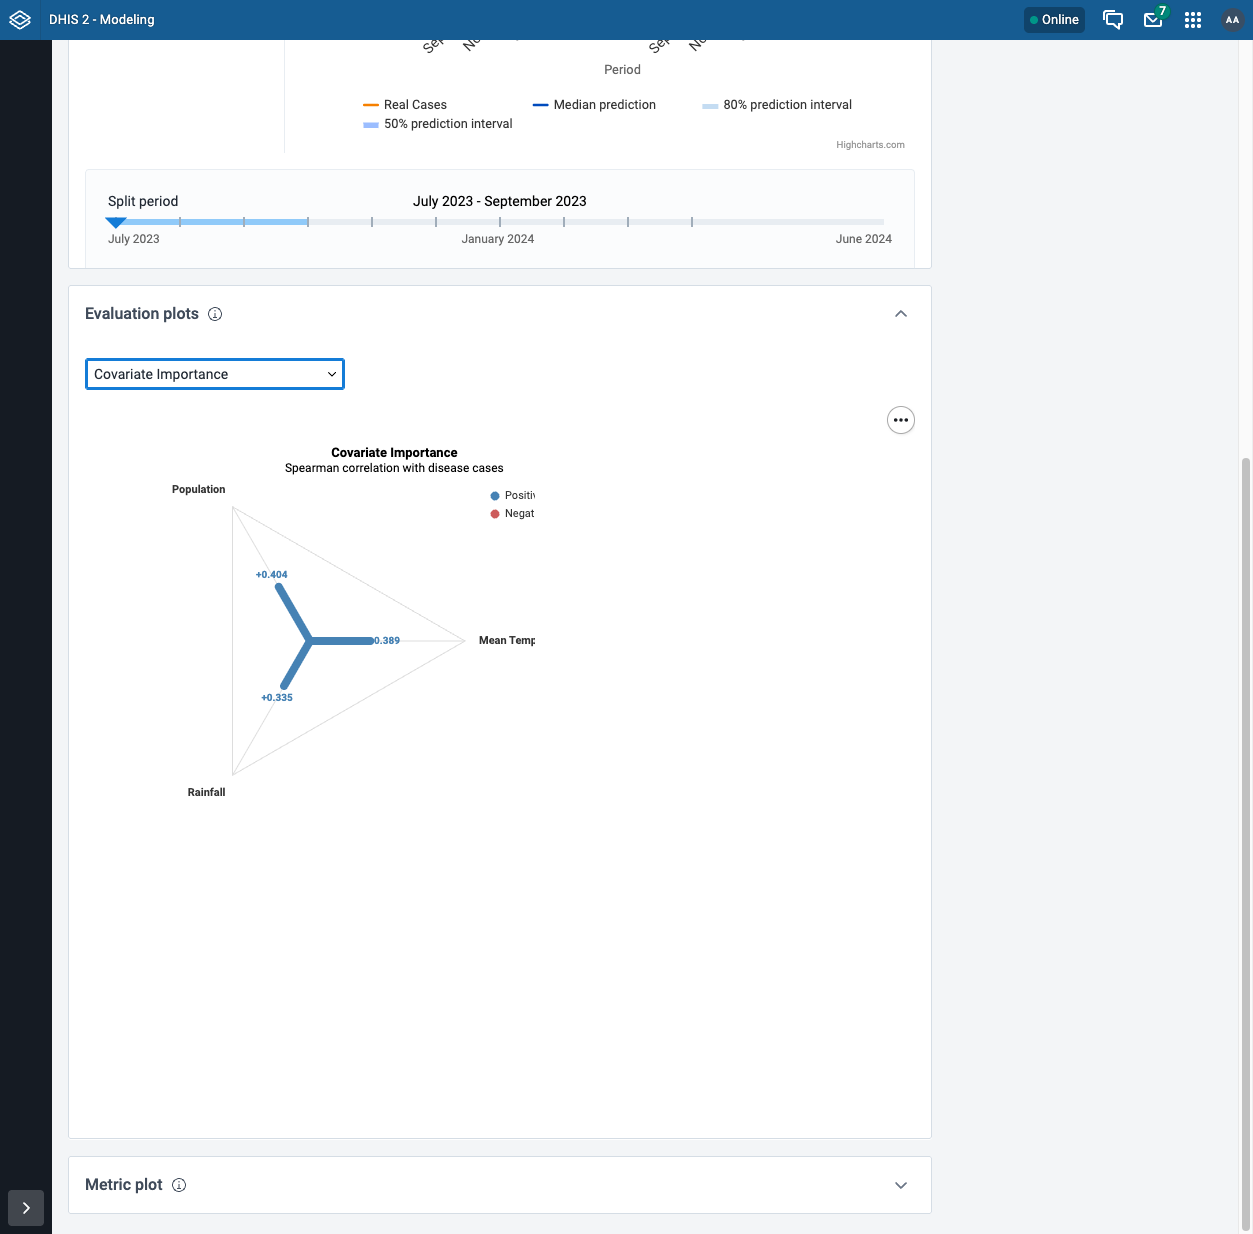
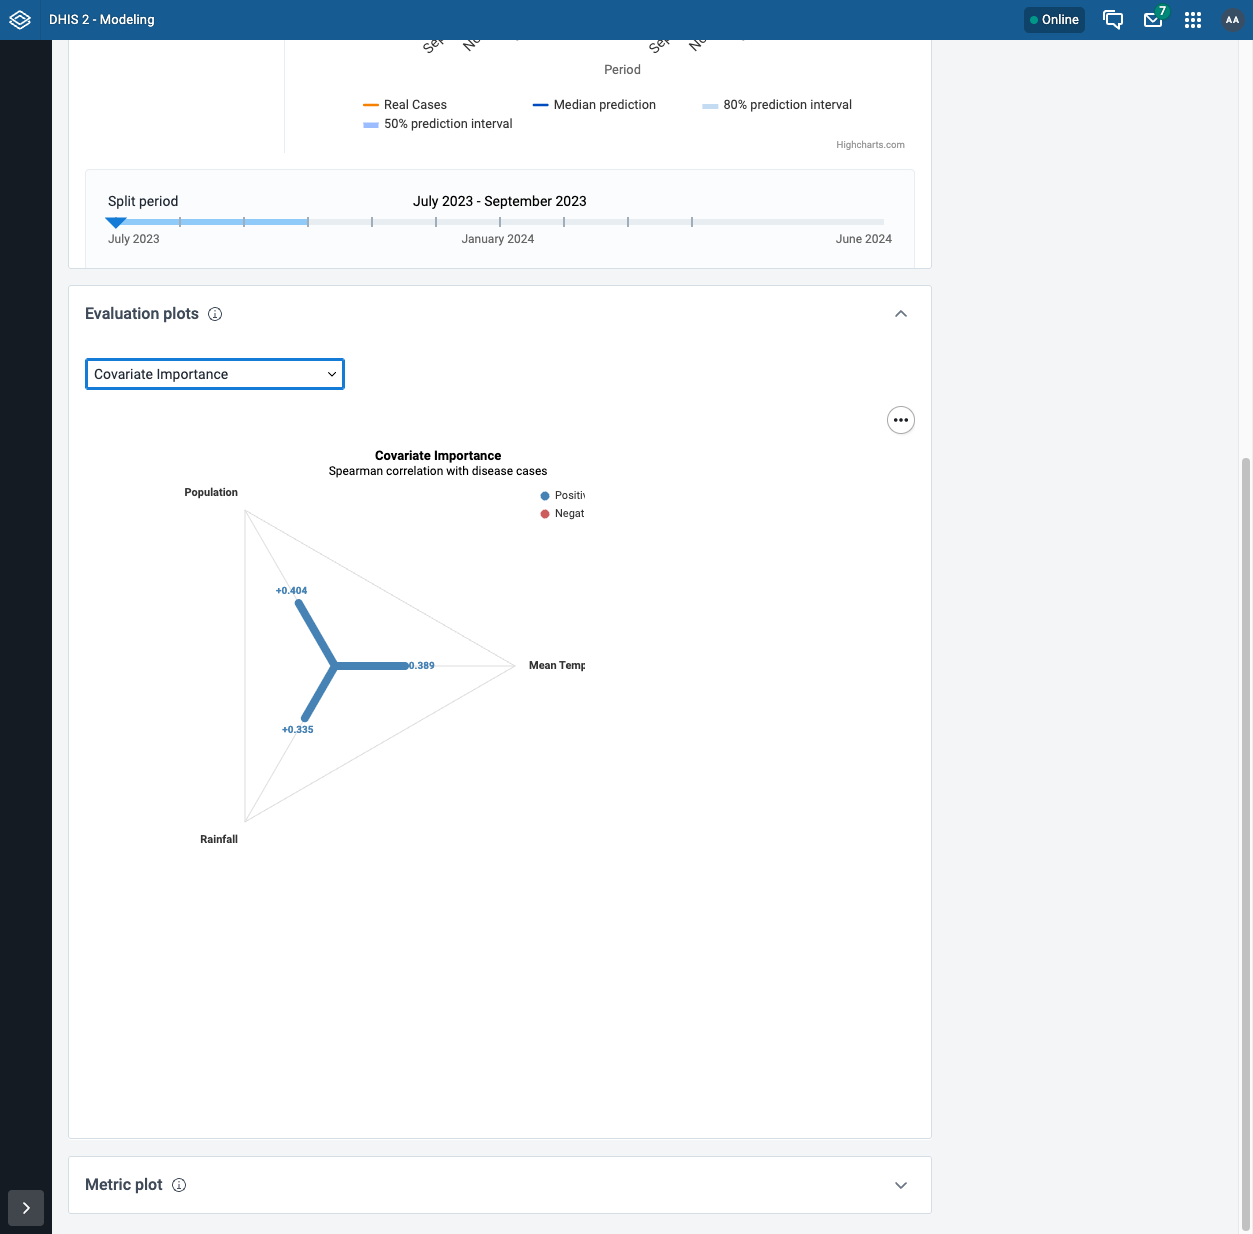
fix: increase radar chart to 500x500 for better visual parity with scatter plot

diff --git a/chap_core/assessment/backtest_plots/covariate_importance_plot.py b/chap_core/assessment/backtest_plots/covariate_importance_plot.py
@@ -67,8 +67,8 @@ def _build_radar_spec(corr_df: pd.DataFrame) -> dict:
     return {
         "$schema": "https://vega.github.io/schema/vega/v5.json",
         "description": "Covariate importance radar chart (signed Spearman r)",
-        "width": 450,
-        "height": 450,
+        "width": 500,
+        "height": 500,
         "padding": {"top": 80, "left": 70, "right": 70, "bottom": 70},
         "autosize": {"type": "none", "contains": "padding"},
         "title": {
